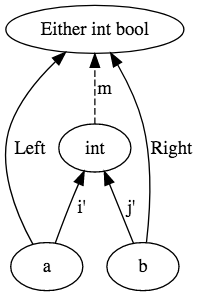
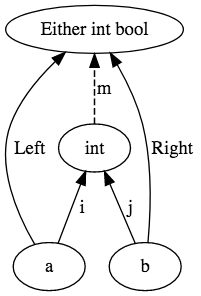
smallfix

diff --git a/105-Products-and-Coproducts.md b/105-Products-and-Coproducts.md
@@ -327,8 +327,8 @@ digraph G {
   "c'" [label="int"]
   c [label="Either int bool"]
   "c'" -> c [label=" m", style="dashed"]
-  a -> "c'" [label=" i'"]
-  b -> "c'" [label=" j'"]
+  a -> "c'" [label=" i"]
+  b -> "c'" [label=" j"]
   a -> c [label=" Left"]
   b -> c [label=" Right"]
   { rank = min; c }
